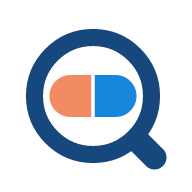
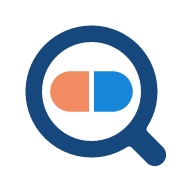
feat(brand): refine the mark's drawing
The mark is the same: a flat glass over a coral-and-blue capsule. Its
drawing is cleaner.

- The glass is one outline. The handle grows out of the ring with a small
  arc in each corner, and its round end no longer pokes into the lens.
- Ring a touch lighter (5.5), handle a touch longer and 7.5 wide.
- The capsule's tips sit 2.75 from the ring (were 2.15) and its seam is
  1.6 (was 1.2), so both read at small sizes.
- The drawing sits in the middle of its tile; it hung one unit low.
- favicon.svg is re-centred so its seam falls on a whole pixel at 32.

Every generated icon and the lockup are redrawn from it. The masthead's,
the extension's and the video's copies follow, with the motion that turns
about the lens centre; the video's covers are re-rendered. The explainer
video and its poster keep the earlier drawing until the video is next made.

Before and after: .impeccable/mocks/brand/refinement.html

diff --git a/.impeccable/mocks/brand/refinement.html b/.impeccable/mocks/brand/refinement.html
@@ -1,0 +1,86 @@
+<!doctype html>
+<html lang="en"><head><meta charset="utf-8"><meta name="viewport" content="width=device-width, initial-scale=1">
+<title>Mark refinement</title>
+<style>
+:root{color-scheme:light;--ink:#0f1f38;--muted:#46566b;--rule:#d9e2ee;--panel:#f1f5fb;--navy:#0b2545;--tag:#d6e2f2}
+*{box-sizing:border-box}
+body{margin:0;font:16px/1.5 "Figtree","Helvetica Neue",Arial,sans-serif;color:var(--ink);background:#fff}
+main{max-width:76rem;margin:0 auto;padding:2rem clamp(1rem,4vw,2rem) 4rem}
+h1{font-size:2rem;line-height:1.15;margin:0 0 .5rem;letter-spacing:-.015em}
+h2{font-size:1.2rem;margin:0;display:flex;align-items:center;gap:.6rem;flex-wrap:wrap}
+p{margin:0;max-width:66ch}
+.lede{color:var(--muted)}
+.tag{font-size:.72rem;font-weight:700;background:var(--tag);border-radius:.3rem;padding:.12rem .42rem}
+.row{border-top:1px solid var(--rule);padding:1.6rem 0;margin-top:1.6rem}
+.row>p{margin-top:.35rem;color:var(--muted);font-size:.92rem}
+.plates{display:grid;grid-template-columns:repeat(3,minmax(0,13.5rem)) minmax(0,1fr);gap:1rem;margin-top:1rem;align-items:start}
+.plate{border-radius:.85rem;aspect-ratio:1;display:grid;place-items:center;overflow:hidden;position:relative}
+.plate.navy{background:var(--navy)}
+.plate.paper{background:var(--panel)}
+.plate svg{width:74%;height:74%;overflow:visible}
+.plate.paper svg{border-radius:25%;box-shadow:0 0 0 1px var(--rule)}
+.plate.joint svg{width:100%;height:100%}
+.cap{position:absolute;left:.6rem;bottom:.45rem;font-size:.7rem;color:#c9d9ee}
+.paper .cap{color:var(--muted)}
+.sizes{display:flex;flex-wrap:wrap;gap:.9rem 1.1rem;align-items:flex-end;padding:.2rem 0}
+.sizes figure{margin:0;display:grid;justify-items:center;gap:.3rem;font-size:.68rem;color:var(--muted)}
+.sizes svg{display:block}
+.sizes .on-navy{background:var(--navy);padding:8px;border-radius:6px}
+.sizes .on-paper{background:var(--panel);padding:8px;border-radius:6px}
+.strip{margin-top:.8rem;background:var(--navy);color:#fff;border-radius:.6rem;padding:.9rem 1.2rem;display:flex;align-items:center;gap:2.5rem;flex-wrap:wrap}
+.name{display:inline-flex;align-items:baseline;letter-spacing:-.01em;white-space:nowrap;font-size:1.25rem}
+.name.big{font-size:2.2rem}
+.name .lead{font-weight:400}.name .tail{font-weight:800;margin-left:.26em}
+.name .ask{height:.94em;width:auto;margin-left:.05em;transform:translateY(.13em);overflow:visible;flex:none}
+.name .hook{fill:none;stroke:currentColor;stroke-width:4.8;stroke-linecap:round}
+.name .dot{fill:#8ec1f5}
+.name svg.mk{width:1.4em;height:1.4em;margin-right:.45em;align-self:center;flex:none;overflow:visible}
+@media (max-width:60rem){.plates{grid-template-columns:repeat(3,minmax(0,1fr))}.plates .sizes{grid-column:1/-1}}
+</style></head>
+<body><main>
+<h1>The mark, refined</h1>
+<p class="lede">The same mark: a flat glass over a coral-and-blue capsule. What changed on 14 Nov 2026 is how it is drawn. Each row shows it on navy, on its white tile, the joint enlarged, the sizes it ships at, and beside the name.</p>
+<div id="rows"></div>
+</main>
+<script>
+// As shipped until 2026-11-14: a stroked ring and a stroked handle with round ends.
+const before = (kind) => {
+  const glass = kind === "reverse" ? "#ffffff" : "#16477d", lens = kind === "reverse" ? "none" : "#ffffff";
+  return `<path d="M44.5 45.5 51.5 52.5" fill="none" stroke="${glass}" stroke-width="8" stroke-linecap="round"/><circle cx="31" cy="32" r="19.5" fill="${lens}" stroke="${glass}" stroke-width="5.7"/><path d="M30.4 25h-6.9a7 7 0 0 0 0 14h6.9z" fill="#f28a62"/><path d="M31.6 25h6.9a7 7 0 0 1 0 14h-6.9z" fill="#1687da"/>`;
+};
+// Refined: the glass is one outline, as in site/public/mark.svg.
+const GLASS = "M42.38 49.02A22 22 0 1 1 49.02 42.38A1.2 1.2 0 0 0 49.18 43.88L54.36 49.06A3.75 3.75 0 0 1 49.06 54.36L43.88 49.18A1.2 1.2 0 0 0 42.38 49.02ZM47 30.5A16.5 16.5 0 1 0 14 30.5A16.5 16.5 0 1 0 47 30.5Z";
+const after = (kind) => {
+  const glass = kind === "reverse" ? "#ffffff" : "#16477d";
+  return `${kind === "reverse" ? "" : '<circle cx="30.5" cy="30.5" r="17" fill="#ffffff"/>'}<path fill="${glass}" fill-rule="evenodd" d="${GLASS}"/><path d="M29.7 23.75h-6.2a6.75 6.75 0 0 0 0 13.5h6.2z" fill="#f28a62"/><path d="M31.3 23.75h6.2a6.75 6.75 0 0 1 0 13.5h-6.2z" fill="#1687da"/>`;
+};
+// The drawing for a browser tab, 16 to 32 pixels.
+const tabBefore = `<path d="M44 45 54 55" fill="none" stroke="#16477d" stroke-width="8" stroke-linecap="round"/><circle cx="28" cy="29" r="21" fill="#ffffff" stroke="#16477d" stroke-width="6"/><path d="M27 21h-6a8 8 0 0 0 0 16h6z" fill="#f28a62"/><path d="M29 21h6a8 8 0 0 1 0 16h-6z" fill="#1687da"/>`;
+const tabAfter = `<path d="M45.1 45.1 54.8 54.8" fill="none" stroke="#16477d" stroke-width="8" stroke-linecap="round"/><circle cx="29" cy="29" r="21" fill="#ffffff" stroke="#16477d" stroke-width="6"/><path d="M28 21h-6a8 8 0 0 0 0 16h6z" fill="#f28a62"/><path d="M30 21h6a8 8 0 0 1 0 16h-6z" fill="#1687da"/>`;
+
+const svg = (body, kind, box, size, extra = "") =>
+  `<svg class="mk" viewBox="${kind === "tile" ? "0 0 64 64" : box}" ${size ? `width="${size}" height="${size}"` : ""} ${extra} aria-hidden="true">${kind === "tile" ? '<rect width="64" height="64" rx="16" fill="#ffffff"/>' : ""}${body}</svg>`;
+
+const ROWS = [
+  ["As shipped", "", before, "8 9 48 48", "36 37 22 22", tabBefore, "The handle is a line with round ends, and the end at the ring pokes into the lens. The capsule's tips sit 2 units from the ring, its seam is 1.2 units, and the drawing hangs 1 unit low on its tile."],
+  ["Refined", "Now in the files", after, "8 8 48 48", "35.5 35.5 22 22", tabAfter, "The glass is one outline. The handle grows out of the ring with a small arc in each corner, and nothing enters the lens. The ring is a touch lighter, the handle a touch longer, the capsule has room at its tips, the seam is wider, and the drawing sits in the middle of its tile."],
+];
+const name = (draw, box, cls = "") => `<span class="name ${cls}">${svg(draw("reverse"), "reverse", box)}<span class="lead">What came</span><span class="tail">of it</span><svg class="ask" viewBox="0 0 20 30"><path class="hook" d="M4.2 8.8a5.9 5.9 0 1 1 9 5c-2.1 1.3-3.2 2.4-3.2 4.7"/><circle class="dot" cx="10" cy="26" r="3.6"/></svg></span>`;
+
+document.getElementById("rows").innerHTML = ROWS.map(([title, tag, draw, box, joint, tab, note]) => `
+  <section class="row">
+    <h2>${title}${tag ? `<span class="tag">${tag}</span>` : ""}</h2><p>${note}</p>
+    <div class="plates">
+      <div class="plate navy">${svg(draw("reverse"), "reverse", box)}<span class="cap">On navy</span></div>
+      <div class="plate paper">${svg(draw("tile"), "tile")}<span class="cap">Tile</span></div>
+      <div class="plate navy joint">${svg(draw("reverse"), "reverse", joint)}<span class="cap">The joint, enlarged</span></div>
+      <div class="sizes">
+        ${[16, 32].map((s) => `<figure><span class="on-paper">${svg(tab, "tile", "", s)}</span>Tab ${s}</figure>`).join("")}
+        ${[48, 64].map((s) => `<figure><span class="on-paper">${svg(draw("tile"), "tile", "", s)}</span>${s}</figure>`).join("")}
+        ${[20, 28, 40].map((s) => `<figure><span class="on-navy">${svg(draw("reverse"), "reverse", box, s)}</span>${s}</figure>`).join("")}
+      </div>
+    </div>
+    <div class="strip">${name(draw, box, "big")}${name(draw, box)}</div>
+  </section>`).join("");
+</script>
+</body></html>

diff --git a/video/src/remotion/brand/marks.tsx b/video/src/remotion/brand/marks.tsx
@@ -5,13 +5,21 @@ import { useCurrentFrame } from "remotion";
 import { arrive } from "./motion";
 import { C } from "./tokens";
 
+// The mark's shapes, as in site/public/mark.svg: the glass as one outline (ring, handle,
+// a small arc in each corner where they meet, the lens cut out) and the capsule's halves.
+const GLASS =
+  "M42.38 49.02A22 22 0 1 1 49.02 42.38A1.2 1.2 0 0 0 49.18 43.88L54.36 49.06A3.75 3.75 0 0 1 49.06 54.36L43.88 49.18A1.2 1.2 0 0 0 42.38 49.02ZM47 30.5A16.5 16.5 0 1 0 14 30.5A16.5 16.5 0 1 0 47 30.5Z";
+const CORAL = "M29.7 23.75h-6.2a6.75 6.75 0 0 0 0 13.5h6.2z";
+const BLUE = "M31.3 23.75h6.2a6.75 6.75 0 0 1 0 13.5h-6.2z";
+/** The lens centre, on both axes of the mark's 64-unit grid. */
+const LENS = 30.5;
+
 /** site/public/mark-reverse.svg: for navy ground. No tile, the glass in white, the capsule in its own colours. */
 export const MarkReverse: FC<{ size: number }> = ({ size }) => (
-  <svg viewBox="8 9 48 48" width={size} height={size} style={{ flex: "none" }}>
-    <path d="M44.5 45.5 51.5 52.5" fill="none" stroke="#ffffff" strokeWidth="8" strokeLinecap="round" />
-    <circle cx="31" cy="32" r="19.5" fill="none" stroke="#ffffff" strokeWidth="5.7" />
-    <path d="M30.4 25h-6.9a7 7 0 0 0 0 14h6.9z" fill="#f28a62" />
-    <path d="M31.6 25h6.9a7 7 0 0 1 0 14h-6.9z" fill="#1687da" />
+  <svg viewBox="8 8 48 48" width={size} height={size} style={{ flex: "none" }}>
+    <path d={GLASS} fill="#ffffff" fillRule="evenodd" />
+    <path d={CORAL} fill="#f28a62" />
+    <path d={BLUE} fill="#1687da" />
   </svg>
 );
 
@@ -19,10 +27,9 @@ export const MarkReverse: FC<{ size: number }> = ({ size }) => (
 export const Mark: FC<{ size: number }> = ({ size }) => (
   <svg viewBox="0 0 64 64" width={size} height={size} style={{ flex: "none" }}>
     <rect width="64" height="64" rx="16" fill="#ffffff" />
-    <path d="M44.5 45.5 51.5 52.5" fill="none" stroke="#16477d" strokeWidth="8" strokeLinecap="round" />
-    <circle cx="31" cy="32" r="19.5" fill="#ffffff" stroke="#16477d" strokeWidth="5.7" />
-    <path d="M30.4 25h-6.9a7 7 0 0 0 0 14h6.9z" fill="#f28a62" />
-    <path d="M31.6 25h6.9a7 7 0 0 1 0 14h-6.9z" fill="#1687da" />
+    <path d={GLASS} fill="#16477d" fillRule="evenodd" />
+    <path d={CORAL} fill="#f28a62" />
+    <path d={BLUE} fill="#1687da" />
   </svg>
 );
 
@@ -40,22 +47,22 @@ export const MarkReverseArriving: FC<{ size: number; at?: number }> = ({ size, a
   const lift = 1.5 * (1 - glass);
   const scale = 1 + 0.14 * (1 - glass);
   return (
-    <svg viewBox="8 9 48 48" width={size} height={size} style={{ flex: "none", overflow: "visible" }}>
-      <g
-        opacity={glass}
-        transform={`translate(${31 - lift} ${32 - lift}) scale(${scale}) translate(-31 -32)`}
-      >
-        <path d="M44.5 45.5 51.5 52.5" fill="none" stroke="#ffffff" strokeWidth="8" strokeLinecap="round" />
-        <circle cx="31" cy="32" r="19.5" fill="none" stroke="#ffffff" strokeWidth="5.7" />
-      </g>
+    <svg viewBox="8 8 48 48" width={size} height={size} style={{ flex: "none", overflow: "visible" }}>
       <path
-        d="M30.4 25h-6.9a7 7 0 0 0 0 14h6.9z"
+        d={GLASS}
+        fill="#ffffff"
+        fillRule="evenodd"
+        opacity={glass}
+        transform={`translate(${LENS - lift} ${LENS - lift}) scale(${scale}) translate(${-LENS} ${-LENS})`}
+      />
+      <path
+        d={CORAL}
         fill="#f28a62"
         opacity={coral}
         transform={`translate(0 ${3 * (1 - coral)})`}
       />
       <path
-        d="M31.6 25h6.9a7 7 0 0 1 0 14h-6.9z"
+        d={BLUE}
         fill="#1687da"
         opacity={blue}
         transform={`translate(${3 * (1 - blue)} 0)`}

diff --git a/extension/src/icons.js b/extension/src/icons.js
@@ -280,16 +280,13 @@ export function waitMark() {
     node.append(...children);
     return node;
   };
-  return make("svg", { viewBox: "8 9 48 48", "aria-hidden": "true", focusable: "false", class: "wait-mark" }, [
-    make("clipPath", { id: "wait-lens" }, [make("circle", { cx: "31", cy: "32", r: "16.65" })]),
-    make("g", { fill: "none", stroke: "#16477d", "stroke-linecap": "round" }, [
-      make("path", { d: "M44.5 45.5 51.5 52.5", "stroke-width": "8" }),
-      make("circle", { cx: "31", cy: "32", r: "19.5", "stroke-width": "5.7" }),
-    ]),
+  return make("svg", { viewBox: "8 8 48 48", "aria-hidden": "true", focusable: "false", class: "wait-mark" }, [
+    make("clipPath", { id: "wait-lens" }, [make("circle", { cx: "30.5", cy: "30.5", r: "16.5" })]),
+    make("path", { fill: "#16477d", "fill-rule": "evenodd", d: "M42.38 49.02A22 22 0 1 1 49.02 42.38A1.2 1.2 0 0 0 49.18 43.88L54.36 49.06A3.75 3.75 0 0 1 49.06 54.36L43.88 49.18A1.2 1.2 0 0 0 42.38 49.02ZM47 30.5A16.5 16.5 0 1 0 14 30.5A16.5 16.5 0 1 0 47 30.5Z" }),
     make("g", { "clip-path": "url(#wait-lens)" }, [
       make("g", { class: "capsule" }, [
-        make("path", { d: "M30.4 25h-6.9a7 7 0 0 0 0 14h6.9z", fill: "#f28a62" }),
-        make("path", { d: "M31.6 25h6.9a7 7 0 0 1 0 14h-6.9z", fill: "#1687da" }),
+        make("path", { d: "M29.7 23.75h-6.2a6.75 6.75 0 0 0 0 13.5h6.2z", fill: "#f28a62" }),
+        make("path", { d: "M31.3 23.75h6.2a6.75 6.75 0 0 1 0 13.5h-6.2z", fill: "#1687da" }),
       ]),
     ]),
   ]);

diff --git a/site/src/styles/global.css b/site/src/styles/global.css
@@ -246,10 +246,10 @@ p {
    an origin inside a cropped drawing matters. */
 @keyframes glass-lower {
   from {
-    transform: translate(29.5px, 30.5px) scale(1.14) translate(-31px, -32px);
+    transform: translate(29px, 29px) scale(1.14) translate(-30.5px, -30.5px);
   }
   to {
-    transform: translate(31px, 32px) scale(1) translate(-31px, -32px);
+    transform: translate(30.5px, 30.5px) scale(1) translate(-30.5px, -30.5px);
   }
 }
 

diff --git a/DESIGN.md b/DESIGN.md
@@ -112,7 +112,7 @@ Figures are tabular and lining throughout. Reading measure is 66 characters. A n
 - **Year and data pages.** `/year/<yyyy>` is a topic-style page: the count, then the claim table with its stage filter. `/data` links the downloadable file and states its licence.
 - **Extension popup.** 360px wide, same tokens and face. The reverse mark and the site name in white on a deep navy head, as on the site; the claim headline; the status in the digest panel's treatment ("Where it stands", blue label, no-signal note in a dashed outline, one sentence of meaning); first reported; the latest promise on pale amber; one full-width blue button, "See the evidence", with a small arrow after the words because it opens a new tab (and "opens in a new tab" for a screen reader); every button that opens a tab carries the arrow. Under it, smaller, a hairline pill with a bell, "Keep me up to date", which follows the claim (the operator asked on 2026-11-13 for plainer words, a smaller control and icons); once followed it is a line with a tick, "You follow this claim.", and "Stop following". The reminder line starts with a clock. The two notices and the last-checked date sit under a hairline in muted small text. A tracked claim shows the stage track under its status, as the site does. A wait (checking the page, searching the registry, reading an image) is marked by the mark, looking: the glass in navy holds still and the capsule passes beneath it, the headline's half and then the record's; with reduced motion it is still. It took the place of the breathing dot on 2026-11-14. Once "Keep me up to date" is pressed, the tick of "You follow this claim." is drawn; opened on a claim already followed, the tick is simply there. A registry search starts with a compact, expandable "Automatic · Unreviewed" label, then the identified treatment and indication and the individual candidate cards. A reused answer keeps its checked date visible. Sources, additional search context and privacy sit in one native disclosure below the cards. A short medical limitation stays visible. Search again, Screenshot and Settings use labelled line icons in a quiet row; Screenshot opens the existing preview. A long answer scrolls under a thin bar in the tag blue. Messages (not tracked, not a web page, unreachable) are a heading, one or two sentences and at most one outlined button. Light only.
 - **Automatic lookup cards.** Opening the popup on an untracked page starts one lookup. The loading state and automatic answer identify OpenAI processing and link to Privacy. Each potential record is a separate, white, hairline-bordered card with 12px corners and 14px padding. Its complete title links to the registry, followed by neutral phase and recruitment-state tags with small line icons. A blue match-confidence label is the summary of an expandable section containing the registry identifier, match reasons and confidence limitation. Blue distinguishes match information from neutral registry metadata; it never grades a treatment. Confidence remains a numeric model estimate, with no meter or traffic-light grade. The automatic/unreviewed label remains visible above the results; its full explanation opens on demand. Reviewed-claim links use the same grouping with reviewed provenance and no invented score.
-- **Icon.** The operator selected the flat coral-and-blue magnifier on 2026-11-13. A white rounded square contains a blue `#16477d` magnifying glass with a short round-ended handle and a horizontal capsule: coral `#f28a62` on the left, clear blue `#1687da` on the right, divided by a white seam. These are brand colours, not evidence grades; coral never replaces the pale amber meaning “promised” in tables. No gradients, shadows, highlights or bevels. `site/public/mark.svg` is the canonical vector; the masthead's copy of the reverse mark is `site/src/components/Mark.astro`, held to the generated file by a site test; `favicon.svg` is its optical version at 16–32 pixels with a larger lens, pill and seam. `site/scripts/brand-icons.mjs` generates raster icons plus square, standalone, monochrome, reverse and outlined-lettering lockup SVGs. The reverse mark (`mark-reverse.svg`) is for navy grounds: the site's masthead, the popup's head, the head of a status card and the site's own card. Every browser, toolbar and launcher icon keeps the white tile. Share cards read the canonical vector directly. The extension builds its icons from the same two sources. `extension/sync-brand-icons.mjs` updates the generated Safari image copies without changing its project, signing or version settings. A capsule can read as a pharmacy: external uses include the site name or “Not medical advice”. No tick, cross or grade appears in the mark.
+- **Icon.** The operator selected the flat coral-and-blue magnifier on 2026-11-13. A white rounded square contains a blue `#16477d` magnifying glass with a short round-ended handle and a horizontal capsule: coral `#f28a62` on the left, clear blue `#1687da` on the right, divided by a white seam. The drawing was refined on 2026-11-14 (`.impeccable/mocks/brand/refinement.html`), the mark itself unchanged. The glass is one outline on a 64-unit grid: a ring 5.5 wide about a lens of radius 16.5, centred at 30.5 on both axes, and a handle 7.5 wide that grows out of the ring at 45 degrees with an arc of radius 1.2 in each corner where they meet, so the join has no nick and nothing enters the lens. The capsule is 27.5 by 13.5 with a seam of 1.6, which leaves its tips 2.75 from the ring. The drawing sits in the middle of its tile, 8.5 from every edge. These are brand colours, not evidence grades; coral never replaces the pale amber meaning “promised” in tables. No gradients, shadows, highlights or bevels. `site/public/mark.svg` is the canonical vector; the masthead's copy of the reverse mark is `site/src/components/Mark.astro`, held to the generated file by a site test; `favicon.svg` is its optical version at 16–32 pixels with a larger lens, pill and seam; its seam falls on a whole pixel at 32. `site/scripts/brand-icons.mjs` generates raster icons plus square, standalone, monochrome, reverse and outlined-lettering lockup SVGs. The reverse mark (`mark-reverse.svg`) is for navy grounds: the site's masthead, the popup's head, the head of a status card and the site's own card. Every browser, toolbar and launcher icon keeps the white tile. Share cards read the canonical vector directly. The extension builds its icons from the same two sources. `extension/sync-brand-icons.mjs` updates the generated Safari image copies without changing its project, signing or version settings. A capsule can read as a pharmacy: external uses include the site name or “Not medical advice”. No tick, cross or grade appears in the mark.
 - **Brand tagline.** “What happened after the headline?” The descriptive page copy continues to explain medical breakthroughs and evidence.
 - **The site's own card.** `/brand-card.png`, 1200 by 630: the masthead at full size, so deep navy throughout: the reverse mark at 168 pixels, the name in white as the wordmark sets it, the tagline in pale blue, and a foot with the site's host and "Not medical advice". A page with no claim to show (home, topics, how it works) shares this card, so a link to the site never arrives bare. A claim page keeps its own status card.
 

diff --git a/openspec/changes/mark-motion/proposal.md b/openspec/changes/mark-motion/proposal.md
@@ -27,6 +27,12 @@ asked for the suggested set and the four drawings to be built.
   press.
 - **Video.** A four-second sting of the mark and the name, in three shapes, for the
   end of a video or a clip. It is not used on the site.
+- **The mark's drawing, refined.** The operator asked on 2026-11-14 for the glass and
+  the logo to be polished. The mark is the same; its drawing is cleaner
+  (`.impeccable/mocks/brand/refinement.html`): the glass is one outline, the handle
+  grows out of the ring without a nick and no longer pokes into the lens, the capsule
+  has room at its tips and a wider seam, and the drawing sits in the middle of its
+  tile. Every generated icon, the lockup, the extension's and the video's copies follow.
 - **A repair.** A drawn line began as a dot: a round end is drawn on a dash of no
   length. Drawn lines now start a little further back than their own length.
 
@@ -39,5 +45,6 @@ asked for the suggested set and the four drawings to be built.
 - The study in which the capsule's blue half arrives after its coral half is not on
   any page: beside a status it could be read as bad then good. It appears only in
   the video sting, where no status is shown.
-- The explainer video is not re-rendered.
+- The explainer video and its poster are not re-rendered, so they show the earlier drawing
+  until the video is next made.
 - No extension version is changed; the Safari release in review is untouched.

diff --git a/openspec/changes/mark-motion/tasks.md b/openspec/changes/mark-motion/tasks.md
@@ -18,7 +18,13 @@
 - [x] 3.1 Add the sting as three compositions (wide, square, tall). Verified by typecheck, stills at seven frames and one full render
 - [ ] 3.2 Render the three and decide where they are used
 
-## 4. Record
+## 4. The mark's drawing
 
-- [x] 4.1 Update the Motion table and the components in `DESIGN.md`
-- [ ] 4.2 Watch every motion on a phone and in Safari
+- [x] 4.1 Redraw the glass as one outline with a clean joint, give the capsule room, centre the drawing; regenerate every icon and the lockup. Verified against the earlier drawing at 16 to 640 pixels, on navy and on the tile
+- [x] 4.2 Bring the masthead's, the extension's and the video's copies to the same drawing; a site test holds the masthead's to the generated file
+- [ ] 4.3 Refresh the Safari project's generated artwork with `extension/sync-brand-icons.mjs` at its next release
+
+## 5. Record
+
+- [x] 5.1 Update the Motion table and the components in `DESIGN.md`
+- [ ] 5.2 Watch every motion on a phone and in Safari
